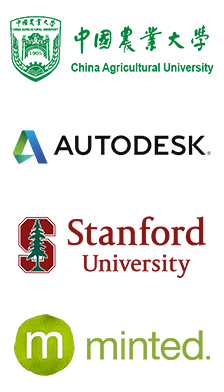
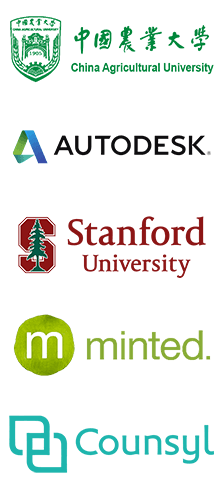
add affiliation counsyl

diff --git a/applications/main/stylesheets/sprites.scss b/applications/main/stylesheets/sprites.scss
@@ -2,7 +2,7 @@
 
 @include img_sprites("./images/sp_portfolio.jpg", 640px, 480px, ( "SPRITE__portfolio-daslab", "SPRITE__portfolio-primerize", "SPRITE__portfolio-rmdb", "SPRITE__portfolio-eterna", "SPRITE__portfolio-hitrace", "SPRITE__portfolio-spindle", "SPRITE__portfolio-m2r", "SPRITE__portfolio-ires", "SPRITE__portfolio-flu", "SPRITE__portfolio-celica", "SPRITE__portfolio-ribokit",), true);
 @include img_sprites("./images/sp_publications.jpg", 432px, 216px, ( "SPRITE__pubs-2013_Shi_NewPhytol", "SPRITE__pubs-2014_Kladwang_Biochemistry", "SPRITE__pubs-2014_Tian_RNA", "SPRITE__pubs-2015_Xue_Nature", "SPRITE__pubs-2015_Miao_RNA", "SPRITE__pubs-2015_Lee_Bioinfomatics", "SPRITE__pubs-2015_Tian_NAR", "SPRITE__pubs-2015_Cheng_eLife", "SPRITE__pubs-2016_Tian_QRB", "SPRITE__pubs-2017_Tian_Bioinformatics", "SPRITE__pubs-2017_Miao_RNA", "SPRITE__pubs-2017_Hagey_NatMed", "SPRITE__pubs-2017_Chen_Science", "SPRITE__pubs-2017_Tian_eLife",), true);
-@include img_sprites("./images/sp_affiliation.png", 512px, 224px, ( "SPRITE__affiliation-CAU", "SPRITE__affiliation-Autodesk", "SPRITE__affiliation-Stanford", "SPRITE__affiliation-Minted",), true);
+@include img_sprites("./images/sp_affiliation.png", 512px, 224px, ( "SPRITE__affiliation-CAU", "SPRITE__affiliation-Autodesk", "SPRITE__affiliation-Stanford", "SPRITE__affiliation-Minted", "SPRITE__affiliation-Counsyl"), true);
 
 @include img_sprites_bg("./images/bg_set_1.jpg", 1920px, 1280px, ( "SPRITE__bg-hoover_tower", "SPRITE__bg-fish_necklace", "SPRITE__bg-campus_map",));
 @include img_sprites_bg("./images/bg_set_2.jpg", 1920px, 1280px, ( "SPRITE__bg-yosemite", "SPRITE__bg-lawn_bench", "SPRITE__bg-muir_trees",));
